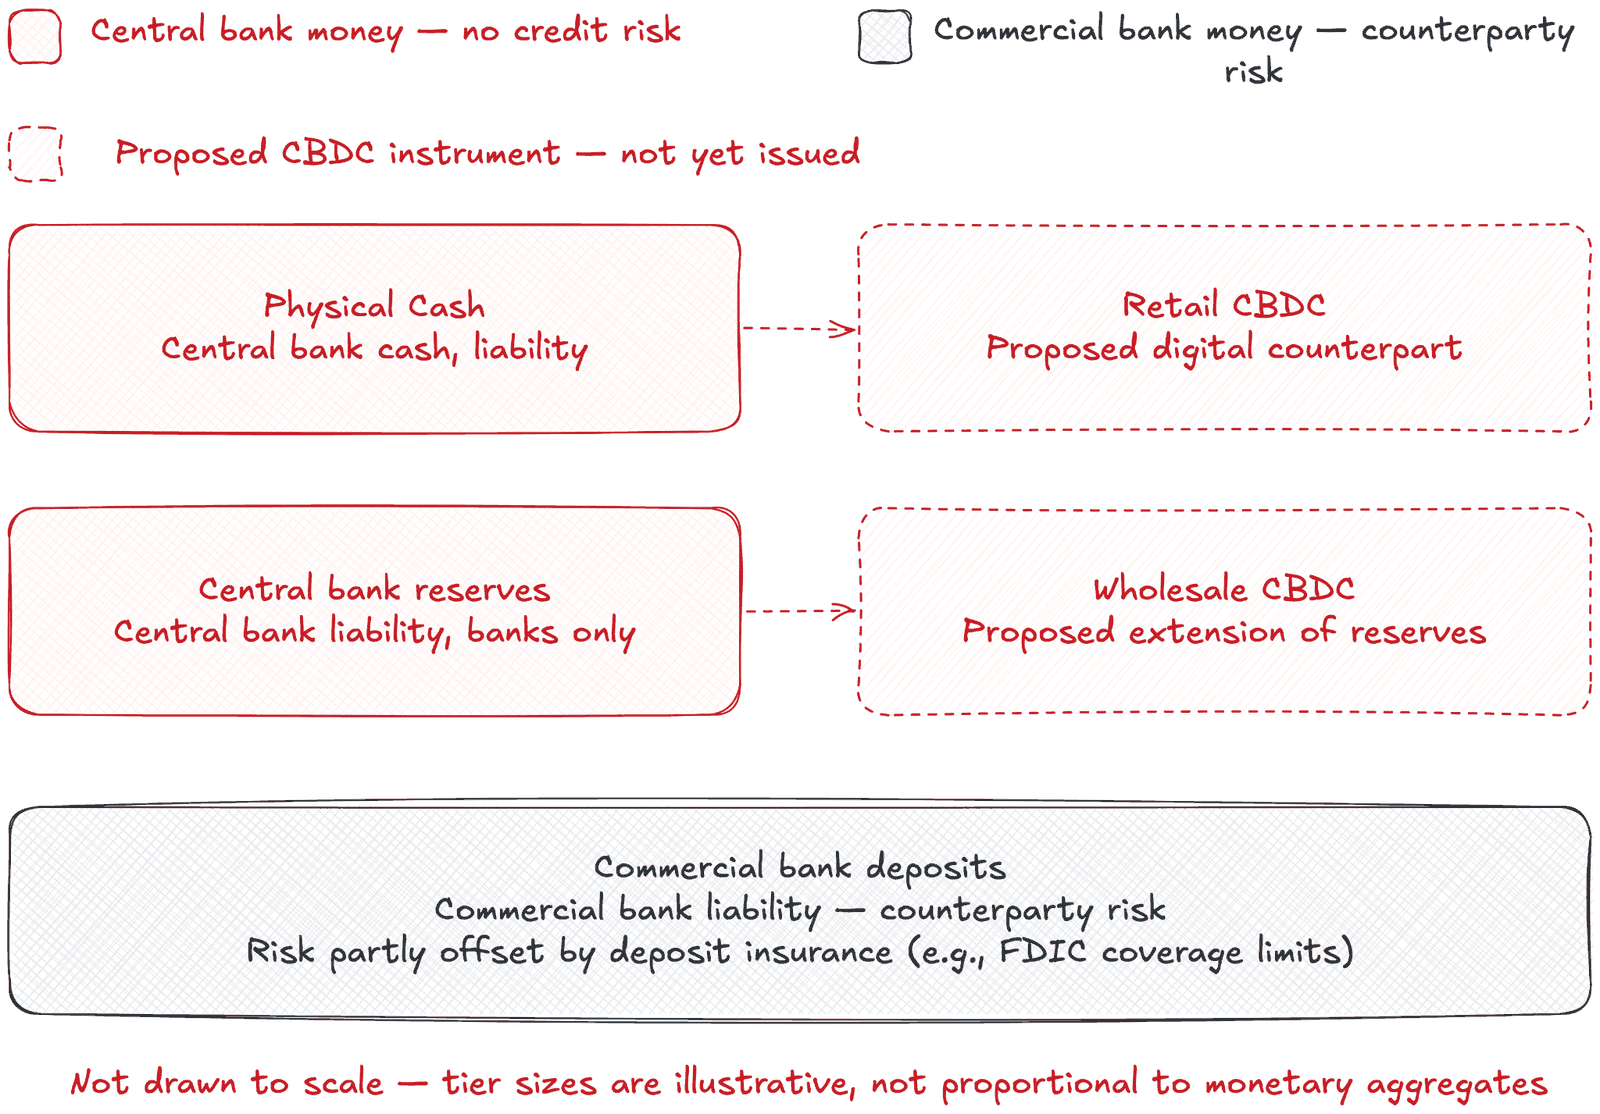
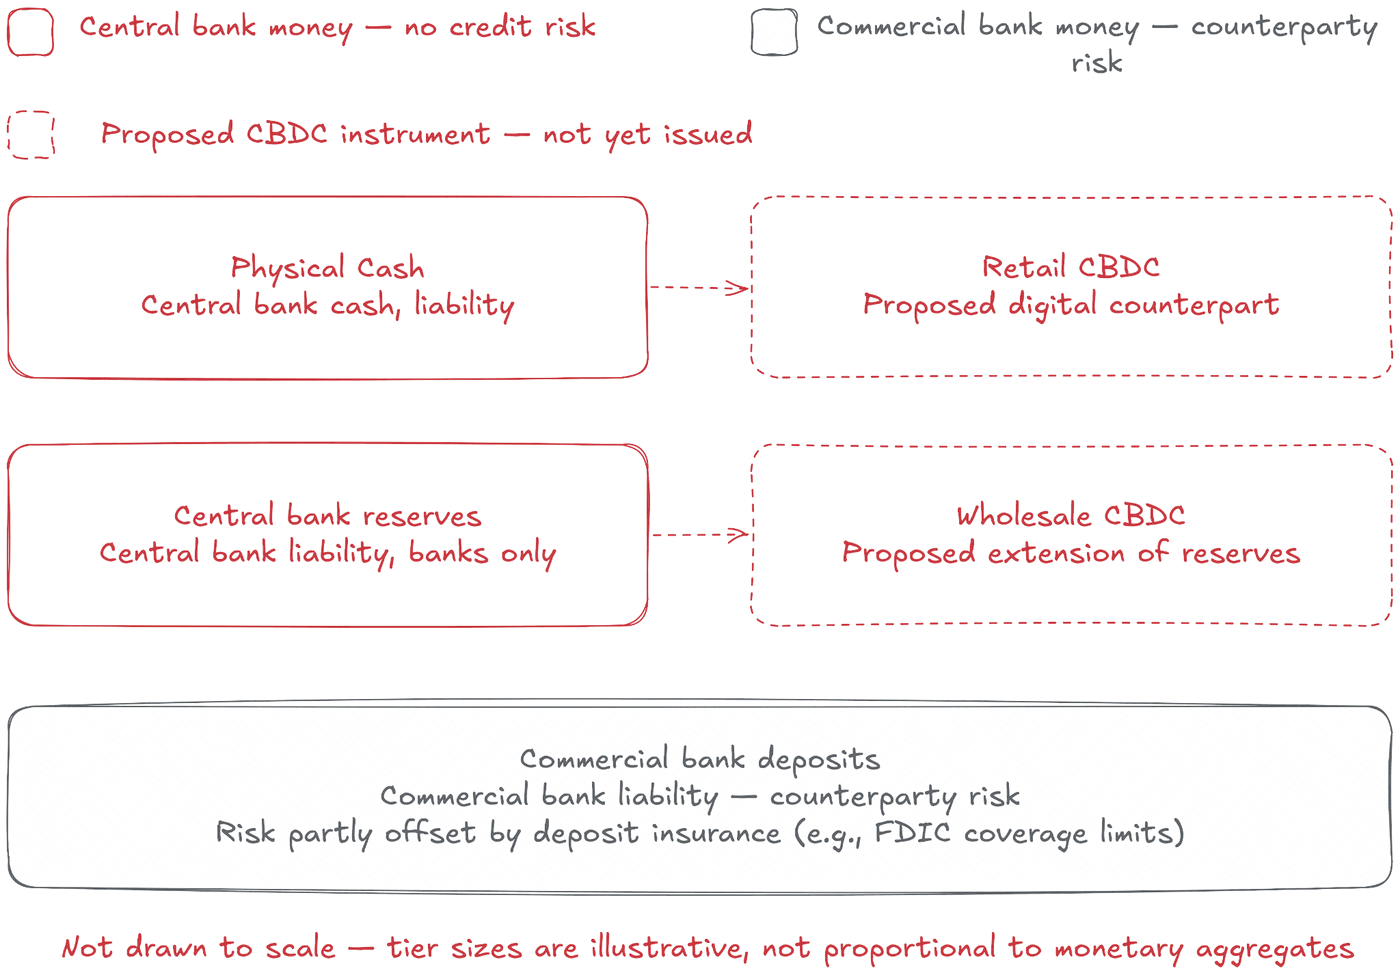
Fix blog post: transparent figure backgrounds, lede sizing, crimson overuse
- Figures were flattened PNGs with an opaque white canvas outside the
  diagram boxes, showing as a white box especially in dark mode. Recomputed
  alpha from pixel luminosity (white -> transparent) so the diagrams float
  on the page background in both themes, no vector source was available
  to re-export as SVG.
- First paragraph accidentally used a small italic "lede" style instead of
  matching the rest of the body copy.
- Per the design system's "one crimson element per screen" rule, dialed
  back crimson that had crept onto every inline citation, every source
  list number, and the series-note border -- only the kicker stays crimson.

diff --git a/blog/cbdc-01-legal-tender-and-cbdc.html b/blog/cbdc-01-legal-tender-and-cbdc.html
@@ -198,7 +198,7 @@
 
     .series-note {
       margin-top: var(--brand-size-lg);
-      border-left: 3px solid var(--brand-color-primary);
+      border-left: 3px solid var(--brand-color-border);
       padding-left: var(--brand-size);
       font-size: var(--brand-font-size-sm);
       color: var(--brand-color-text-secondary);
@@ -222,16 +222,10 @@
       margin-top: var(--brand-size-lg);
     }
 
-    .article-content .lede {
-      font-style: italic;
-      color: var(--brand-color-text-tertiary);
-      font-size: var(--brand-font-size-sm);
-    }
-
     sup.cite a {
       font-family: var(--code-family);
       font-size: 0.7em;
-      color: var(--brand-color-primary);
+      color: var(--brand-color-text-secondary);
       font-weight: 700;
     }
 
@@ -243,8 +237,6 @@
     .article-figure img {
       width: 100%;
       display: block;
-      border: var(--brand-line-width) solid var(--brand-color-border);
-      background-color: #ffffff;
     }
 
     .article-figure figcaption {
@@ -288,7 +280,7 @@
     .sources-list .src-num {
       font-family: var(--code-family);
       font-weight: 700;
-      color: var(--brand-color-primary);
+      color: var(--brand-color-text-secondary);
       flex-shrink: 0;
     }
 
@@ -351,7 +343,7 @@
       </div>
 
       <article class="section article-content">
-        <p class="lede">
+        <p>
           I joined the financial crime and market conduct team with an engineering background, not a banking one. The acronyms came fast — AML, CFT, KYC, LFI etc — but the one that stopped me was CBDC. Central bank digital currency. Someone used it three times in one paragraph and I realized I couldn't define any of the three words with confidence. What's "central bank money" as opposed to regular money? Is CBDC a cryptocurrency? Is it just cash with an app?
         </p>
 